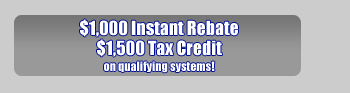
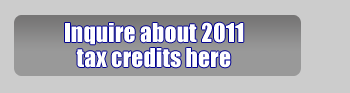
Fixed header graphic and link in all pages added twitter stuff to bottom of home page fixed graphic on money to mailto link

Changed region(s): [[0.1714, 0.1935, 0.7143, 0.7957]]

diff --git a/index.html b/index.html
@@ -22,7 +22,7 @@
     </div>
     <div id="header_buttons">
       <div class="button_div">
-        <a href="special.html">
+        <a href="mailto: afrench@ssrfg.com">
           <img src="images/rebat_header.png" width="350" height="100" border="0" />
         </a>
       </div>
@@ -39,7 +39,7 @@
     </div>
   </div>
   <div id="banner">
-    <a href="contest.php"><img src="images/graphics/contest_banner.png" width="865" height="143" border="0" usemap="#Map" /></a>
+    <a href="contest.php" target="_blank"><img src="images/graphics/contest_banner.png" width="865" height="143" border="0" usemap="#Map" /></a>
   </div>
   <div id="main_content">
     <div id="main_column">
@@ -78,11 +78,15 @@
         <a href="images/coupons/coupon.pdf" target="_blank"><img src="images/graphics/index_graphics/index_coupon.jpg" alt="View our refrigerant loss alarms" width="350" height="202" border="0" /></a>
       </div>
       <div class="segment padded">
-        <a href="special.html"><img src="images/rebate_graphic.png" width="300" height="202" border="0" /></a>
+        <a href="mailto: afrench@ssrfg.com"><img src="images/rebate_graphic.png" width="300" height="202" border="0" /></a>
       </div>
       <div class="segment padded">
         <a href="rental.php"><img src="images/graphics/index_graphics/rental_graphic.jpg" alt="View or portable rental equipment" width="300" height="202" border="0" /></a>
       </div>
+			<div class="segment padded">
+				<a style="text-align:center"href="http://www.twitter.com/silverstatenv" target="_blank"><img src="images/graphics/twitter.jpg" alt="View or portable rental equipment" width="60" height="61" border="0" /></a><br />
+				<p style="text-align:center">Follow Us</a></p>
+			</div>
     </div>
   </div>
   <div id="footer">

diff --git a/general.html b/general.html
@@ -128,7 +128,7 @@ body {
   <!--DWLayoutDefaultTable-->
   <tr>
     <td colspan="7" rowspan="2" valign="top"><img src="images/banner_left.gif" width="623" height="193" />    </td>
-    <td height="100" colspan="4" valign="top"><a href="special.html"><img src="images/rebat_header.png" width="350" height="100" border="0" /></a></td>
+    <td height="100" colspan="4" valign="top"><a href="mailto:afrench@ssrfg.com"><img src="images/rebat_header.png" width="350" height="100" border="0" /></a></td>
   </tr>
   <tr>
     <td height="93" colspan="4" valign="top"><a href="contact_content.php" target="_blank" onmouseover="MM_swapImage('Image15','','images/reqest_button2.png',1)" onmouseout="MM_swapImgRestore()"><img src="images/reqest_button1.png" name="Image15" width="350" height="93" border="0" id="Image15" /></a></td>

diff --git a/residential.html b/residential.html
@@ -128,7 +128,7 @@ body {
   <!--DWLayoutDefaultTable-->
   <tr>
     <td colspan="4" rowspan="2" valign="top"><img src="images/banner_left.gif" width="623" height="193" />    </td>
-    <td height="100" colspan="2" valign="top"><a href="special.html"><img src="images/rebat_header.png" width="350" height="100" border="0" /></a></td>
+    <td height="100" colspan="2" valign="top"><a href="mailto:afrench@ssrfg.com"><img src="images/rebat_header.png" width="350" height="100" border="0" /></a></td>
   </tr>
   <tr>
     <td height="93" colspan="2" valign="top"><a href="contact_content.php" target="_blank" onmouseover="MM_swapImage('Image11','','images/reqest_button2.png',1)" onmouseout="MM_swapImgRestore()"><img src="images/reqest_button1.png" name="Image11" width="350" height="93" border="0" id="Image11" /></a></td>

diff --git a/employment.html b/employment.html
@@ -129,7 +129,7 @@ body {
   <!--DWLayoutDefaultTable-->
   <tr>
     <td colspan="9" rowspan="2" valign="top"><img src="images/banner_left.gif" width="623" height="193" />    </td>
-    <td height="100" colspan="3" valign="top"><a href="special.html"><img src="images/rebat_header.png" width="350" height="100" border="0" /></a></td>
+    <td height="100" colspan="3" valign="top"><a href="mailto:afrench@ssrfg.com"><img src="images/rebat_header.png" width="350" height="100" border="0" /></a></td>
   </tr>
   <tr>
     <td height="93" colspan="3" valign="top"><a href="contact_content.php" target="_blank" onmouseover="MM_swapImage('Image8','','images/reqest_button2.png',1)" onmouseout="MM_swapImgRestore()"><img src="images/reqest_button1.png" name="Image8" width="350" height="93" border="0" id="Image8" /></a></td>

diff --git a/ssweb.html b/ssweb.html
@@ -126,7 +126,7 @@ body {
   <!--DWLayoutDefaultTable-->
   <tr>
     <td colspan="2" rowspan="2" valign="top"><img src="images/banner_left.gif" width="623" height="193" />    </td>
-    <td height="100" colspan="2" valign="top"><a href="special.html"><img src="images/rebat_header.png" width="350" height="100" border="0" /></a></td>
+    <td height="100" colspan="2" valign="top"><a href="mailto:afrench@ssrfg.com"><img src="images/rebat_header.png" width="350" height="100" border="0" /></a></td>
   </tr>
   <tr>
     <td height="93" colspan="2" valign="top"><a href="contact_content.php" target="_blank" onmouseover="MM_swapImage('Image9','','images/reqest_button2.png',1)" onmouseout="MM_swapImgRestore()"><img src="images/reqest_button1.png" name="Image9" width="350" height="93" border="0" id="Image9" /></a></td>

diff --git a/ballys.html b/ballys.html
@@ -131,7 +131,7 @@ body {
   <!--DWLayoutDefaultTable-->
   <tr>
     <td colspan="4" rowspan="2" valign="top"><img src="images/banner_left.gif" width="623" height="193" />   </td>
-    <td height="100" colspan="2" valign="top"><a href="special.html"><img src="images/rebat_header.png" width="350" height="100" border="0" /></a></td>
+    <td height="100" colspan="2" valign="top"><a href="mailto:afrench@ssrfg.com"><img src="images/rebat_header.png" width="350" height="100" border="0" /></a></td>
   </tr>
   <tr>
     <td height="93" colspan="2" valign="top"><a href="contact_content.php" target="_blank" onmouseover="MM_swapImage('Image9','','images/reqest_button2.png',1)" onmouseout="MM_swapImgRestore()"><img src="images/reqest_button1.png" name="Image9" width="350" height="93" border="0" id="Image9" /></a></td>

diff --git a/washington.html b/washington.html
@@ -126,7 +126,7 @@ body {
   <!--DWLayoutDefaultTable-->
   <tr>
     <td colspan="2" rowspan="2" valign="top"><img src="images/banner_left.gif" width="623" height="193" />   </td>
-    <td height="100" colspan="2" valign="top"><a href="special.html"><img src="images/rebat_header.png" width="350" height="100" border="0" /></a></td>
+    <td height="100" colspan="2" valign="top"><a href="mailto:afrench@ssrfg.com"><img src="images/rebat_header.png" width="350" height="100" border="0" /></a></td>
   </tr>
   <tr>
     <td height="93" colspan="2" valign="top"><a href="contact_content.php" target="_blank" onmouseover="MM_swapImage('Image9','','images/reqest_button2.png',1)" onmouseout="MM_swapImgRestore()"><img src="images/reqest_button1.png" name="Image9" width="350" height="93" border="0" id="Image9" /></a></td>

diff --git a/wholefoods.html b/wholefoods.html
@@ -131,7 +131,7 @@ body {
   <!--DWLayoutDefaultTable-->
   <tr>
     <td colspan="6" rowspan="2" valign="top"><img src="images/banner_left.gif" width="623" height="193" />    </td>
-    <td height="100" colspan="4" valign="top"><a href="special.html"><img src="images/rebat_header.png" width="350" height="100" border="0" /></a></td>
+    <td height="100" colspan="4" valign="top"><a href="mailto:afrench@ssrfg.com"><img src="images/rebat_header.png" width="350" height="100" border="0" /></a></td>
   </tr>
   <tr>
     <td height="93" colspan="4" valign="top"><a href="contact_content.php" onmouseout="MM_swapImgRestore()" onmouseover="MM_swapImage('Image14','','images/reqest_button2.png',1)"><img src="images/reqest_button1.png" name="Image14" width="350" height="93" border="0" id="Image14" /></a></td>

diff --git a/warehouse.html b/warehouse.html
@@ -129,7 +129,7 @@ body {
   
   <tr>
     <td colspan="3" rowspan="2" valign="top"><img src="images/banner_left.gif" width="623" height="193" />    </td>
-    <td height="100" colspan="4" valign="top"><a href="special.html"><img src="images/rebat_header.png" width="350" height="100" border="0" /></a></td>
+    <td height="100" colspan="4" valign="top"><a href="mailto:afrench@ssrfg.com"><img src="images/rebat_header.png" width="350" height="100" border="0" /></a></td>
   </tr>
   <tr>
     <td height="93" colspan="4" valign="top"><a href="contact_content.php" target="_blank" onmouseover="MM_swapImage('Image10','','images/reqest_button2.png',1)" onmouseout="MM_swapImgRestore()"><img src="images/reqest_button1.png" name="Image10" width="350" height="93" border="0" id="Image10" /></a></td>

diff --git a/contactus.html b/contactus.html
@@ -125,7 +125,7 @@ body {
   <tr>
     <td colspan="4" rowspan="2" valign="top"><img src="images/banner_left.gif" width="623" height="193" />
     </td>
-    <td height="100" colspan="4" valign="top"><a href="special.html"><img src="images/rebat_header.png" width="350" height="100" border="0" /></a></td>
+    <td height="100" colspan="4" valign="top"><a href="mailto:afrench@ssrfg.com"><img src="images/rebat_header.png" width="350" height="100" border="0" /></a></td>
   </tr>
   <tr>
     <td height="93" colspan="4" valign="top"><a href="contact_content.php" target="_blank" onmouseover="MM_swapImage('Image10','','images/reqest_button2.png',1)" onmouseout="MM_swapImgRestore()"><img src="images/reqest_button1.png" name="Image10" width="350" height="93" border="0" id="Image10" /></a></td>

diff --git a/duct.html b/duct.html
@@ -133,7 +133,7 @@ body {
   <tr>
     <td colspan="8" rowspan="2" valign="top"><img src="images/banner_left.gif" width="623" height="193" />
     </td>
-    <td height="100" colspan="6" valign="top"><a href="special.html"><img src="images/rebat_header.png" width="350" height="100" border="0" /></a></td>
+    <td height="100" colspan="6" valign="top"><a href="mailto:afrench@ssrfg.com"><img src="images/rebat_header.png" width="350" height="100" border="0" /></a></td>
   </tr>
   <tr>
     <td height="93" colspan="6" valign="top"><a href="contact_content.php" target="_blank" onmouseover="MM_swapImage('Image13','','images/reqest_button2.png',1)" onmouseout="MM_swapImgRestore()"><img src="images/reqest_button1.png" name="Image13" width="350" height="93" border="0" id="Image13" /></a></td>

diff --git a/newconstruction.html b/newconstruction.html
@@ -135,7 +135,7 @@ body {
   <tr>
     <td colspan="6" rowspan="2" valign="top"><img src="images/banner_left.gif" width="623" height="193" />
     </td>
-    <td height="100" colspan="3" valign="top"><a href="special.html"><img src="images/rebat_header.png" width="350" height="100" border="0" /></a></td>
+    <td height="100" colspan="3" valign="top"><a href="mailto:afrench@ssrfg.com"><img src="images/rebat_header.png" width="350" height="100" border="0" /></a></td>
   </tr>
   <tr>
     <td height="93" colspan="3" valign="top"><a href="contact_content.php" target="_blank" onmouseover="MM_swapImage('Image11','','images/reqest_button2.png',1)" onmouseout="MM_swapImgRestore()"><img src="images/reqest_button1.png" name="Image11" width="350" height="93" border="0" id="Image11" /></a></td>
